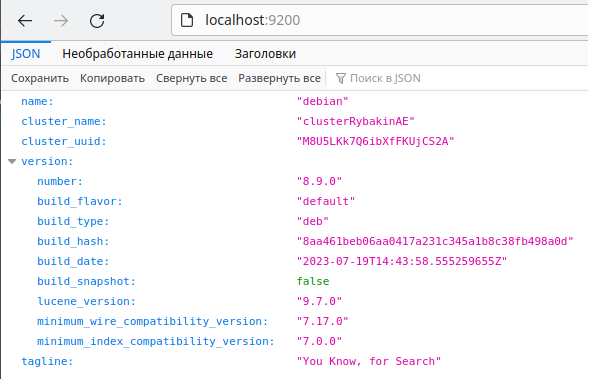
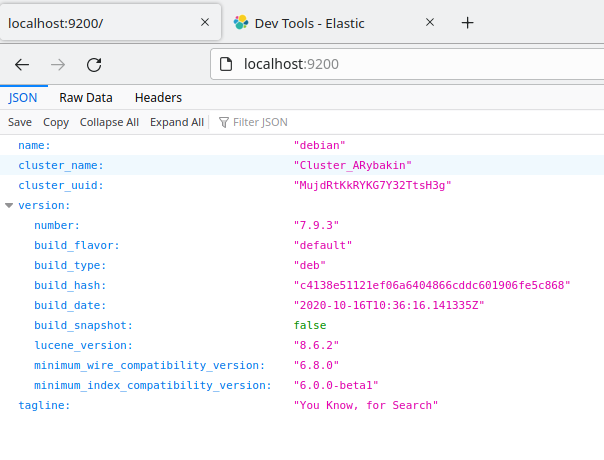
ветка мастер, 11-13 задание 11-3-2

diff --git a/11-3.md b/11-3.md
@@ -5,7 +5,26 @@
 Установите и запустите Elasticsearch, после чего поменяйте параметр cluster_name на случайный. 
 
 *Приведите скриншот команды 'curl -X GET 'localhost:9200/_cluster/health?pretty', сделанной на сервере с установленным Elasticsearch. Где будет виден нестандартный cluster_name*.
+
 ![1](./img/11-3_1.png)
+
+<details>
+<summary>файл /etc/elasticsearch/elasticsearch.yml<</summary>
+
+```
+
+cluster.name: Cluster_ARybakin
+path.data: /var/lib/elasticsearch
+path.logs: /var/log/elasticsearch
+network.host: localhost
+http.port: 9200
+
+всё остальное закоментированно
+
+```
+</details>
+
+
 ---
 
 ### Задание 2. Kibana
@@ -13,7 +32,22 @@
 Установите и запустите Kibana.
 
 *Приведите скриншот интерфейса Kibana на странице http://<ip вашего сервера>:5601/app/dev_tools#/console, где будет выполнен запрос GET /_cluster/health?pretty*.
+
 ![2](./img/11-3_2.png)
+
+<details>
+<summary>файл /etc/kibana/kibana.yml </summary>
+
+```
+
+server.port: 5601
+server.host: 0.0.0.0
+elasticsearch.hosts: ["http://localhost:9200"]
+
+```
+</details>
+
+
 ---
 
 ### Задание 3. Logstash
@@ -27,40 +61,41 @@
 <details>
 <summary>Файл /etc/logstash/conf.d/logstash.conf</summary>
 
-
 ```
+
 input {
-        file {
-                path => "/var/log/nginx/access.log"
-                start_position => "beginning"
-                type => "nginx"
+        file {    
+        path => "/var/log/nginx/access.log"
+        start_position => "beginning"
+        }
 }
-}
+ 
+
 filter {
         grok {
-                match => { "message" => "%{IPORHOST:remote_ip} - %{DATA:user_name} \[%{HTTPDATE:access_time}\] \"%{WO>
+        match => { "message" => "%{IPORHOST:remote_ip} - %{DATA:user_name}
+\[%{HTTPDATE:access_time}\] \"%{WORD:http_method} %{DATA:url}
+HTTP/%{NUMBER:http_version}\" %{NUMBER:response_code} %{NUMBER:body_sent_bytes}
+\"%{DATA:referrer}\" \"%{DATA:agent}\"" }
+        }
         mutate {
-                remove_field => [ "host" ]
+        remove_field => [ "host" ]
         }
 }
 output {
-        elasticsearch {
-                hosts => localhost
-#               data_stream => "true"
-                index => "nginx-%{+YYYY.MM.dd}"
+        elasticsearch {    
+        hosts => "localhost:9200"
+        data_stream => "true"
+        index => "index-logstash"
         }
 }
 
 ```
 </details>
 
-![3](./img/11-3_3-1.png)
+Версия elasticsearch, kibana, logstash - 7.9.0
 
-Версия elasticsearch, kibana, logstash - 8.9.0
-
-После всего установленного не появляется "index-pattern" 
-
-![3](./img/11-3_3-2.png)
+После всего установленного в "index-pattern" не появляются индексы 
 
 ---
 
@@ -69,4 +104,40 @@ output {
 Установите и запустите Filebeat. Переключите поставку логов Nginx с Logstash на Filebeat. 
 
 *Приведите скриншот интерфейса Kibana, на котором видны логи Nginx, которые были отправлены через Filebeat.*
-![4](./img/11-3_4.png)
+
+<details>
+<summary>файл /etc/filebeat/filebeat.yml</summary>
+
+```
+filebeat.inputs:
+- type: log
+  enabled: true
+  paths:
+    - /var/log/nginx/access.log
+
+filebeat.config.modules:
+  path: ${path.config}/modules.d/*.yml
+  reload.enabled: false
+
+setup.template.settings:
+  index.number_of_shards: 1
+
+setup.kibana:
+
+output.elasticsearch:
+  hosts: ["localhost:9200"]
+
+output.logstash:
+  hosts: ["localhost:5044"]
+
+processors:
+  - drop_fields:
+      fields: ["beat", "input_type", "prospector", "input", "host", "agent","ecs"]
+  - add_host_metadata:
+      when.not.contains.tags: forwarded
+  - add_cloud_metadata: ~
+  - add_docker_metadata: ~
+  - add_kubernetes_metadata: ~
+
+```
+</details>
